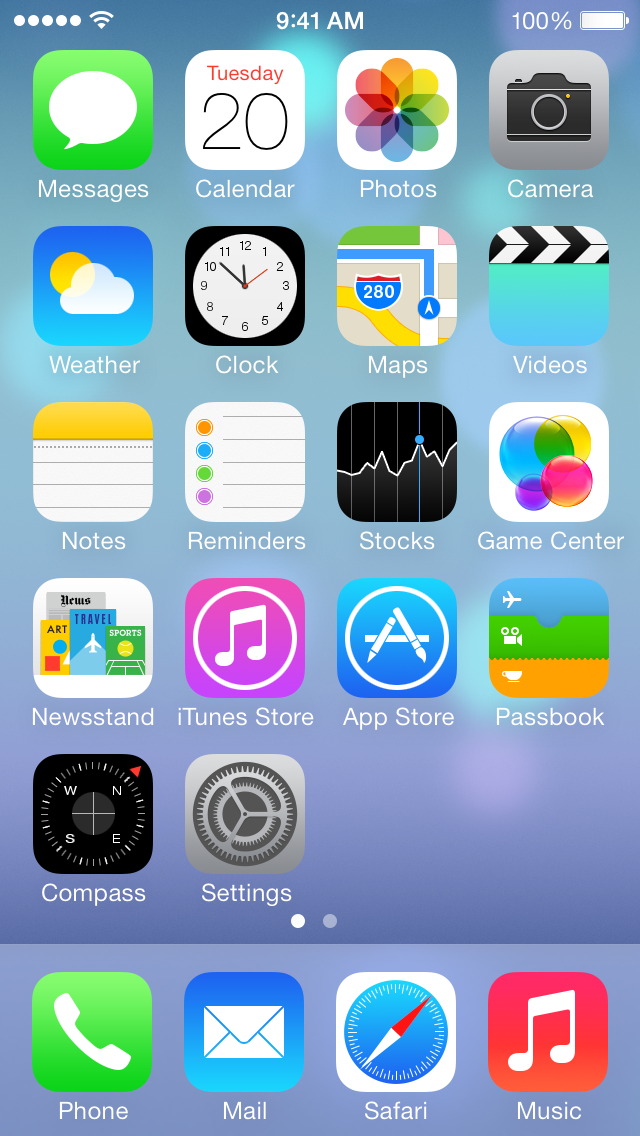
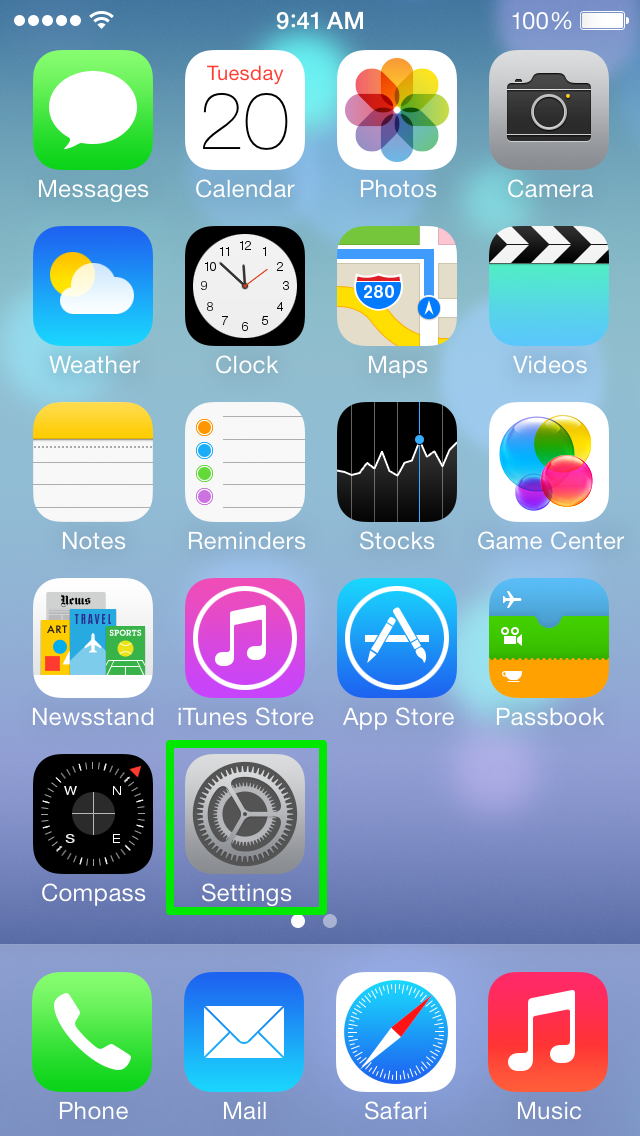
updating iphone1 , replaced ziphone1

Changed region(s): [[0.25, 0.647, 0.5312, 0.8319]]

diff --git a/email-iphone.md b/email-iphone.md
@@ -2,7 +2,7 @@
 
 Click on the **Settings** button to your iPhone apps.
 
-<img src="https://raw.githubusercontent.com/GearHost/docs/master/Images/ziphone1.png" width="450" height="600" />
+<img src="https://raw.githubusercontent.com/GearHost/docs/master/Images/iphone1.png" width="450" height="600" />
 
 
 Click **Mail, Contacts, Calendars.**
